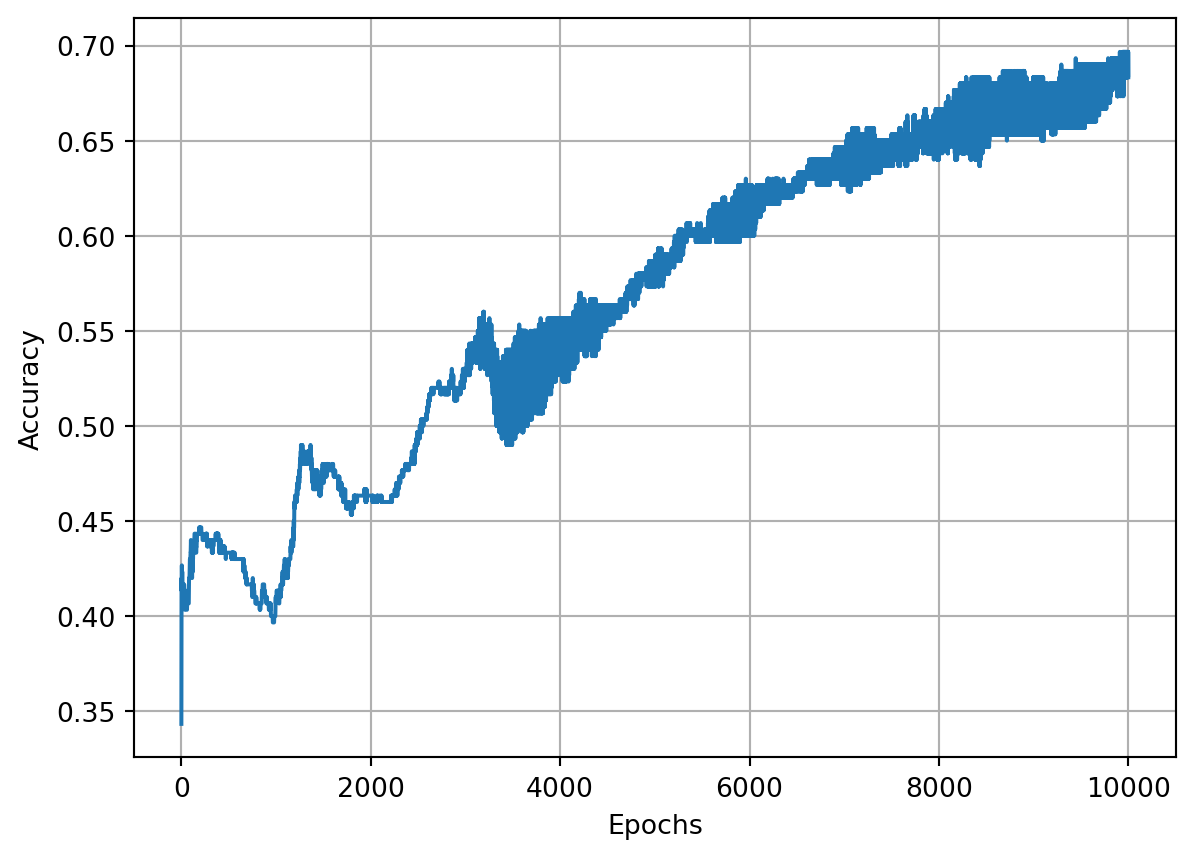
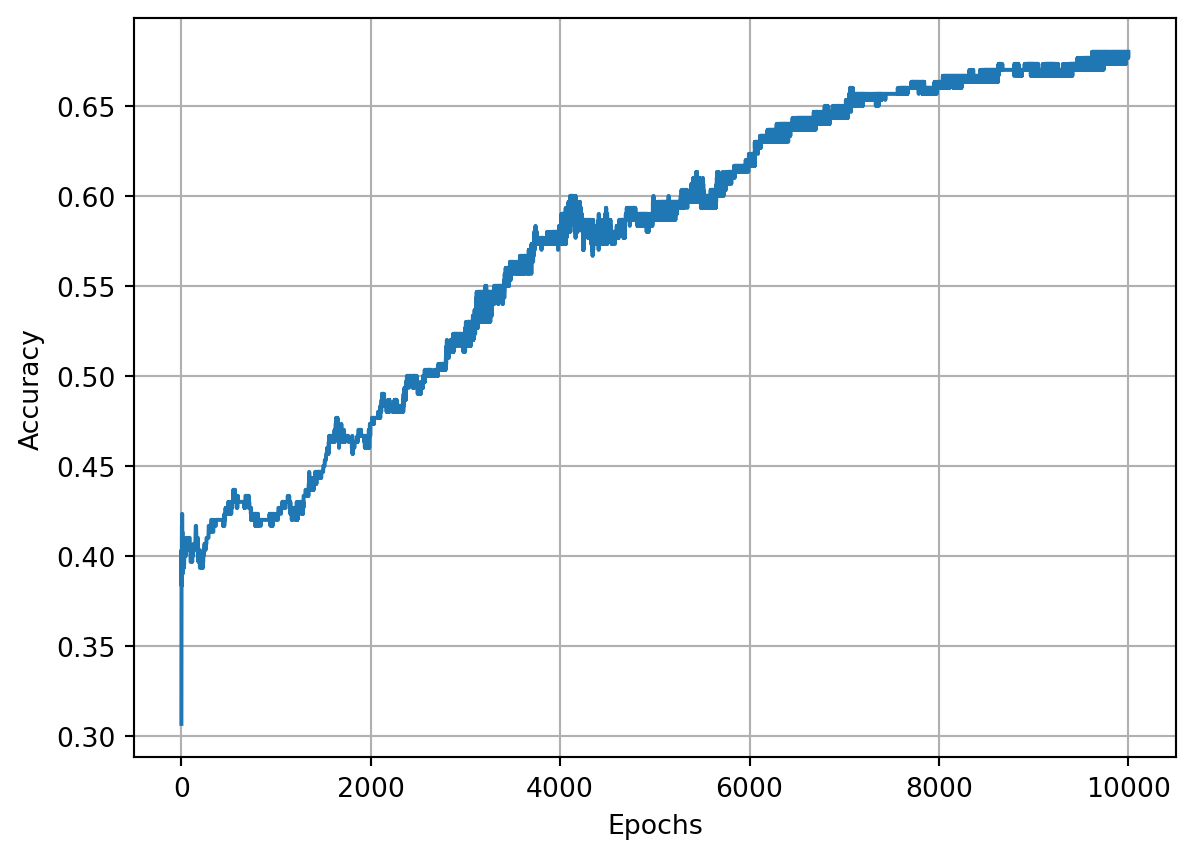
optimization

diff --git a/docs/posts/optimization_algorithms/index.html b/docs/posts/optimization_algorithms/index.html
@@ -201,6 +201,7 @@ pre > code.sourceCode > span > a:first-child::before { text-decoration: underlin
   <li><a href="#adding-momentum-to-the-sgdoptimizer-class" id="toc-adding-momentum-to-the-sgdoptimizer-class" class="nav-link" data-scroll-target="#adding-momentum-to-the-sgdoptimizer-class">Adding momentum to the <code>SGDOptimizer</code> class</a>
   <ul class="collapse">
   <li><a href="#adagrad" id="toc-adagrad" class="nav-link" data-scroll-target="#adagrad">AdaGrad</a></li>
+  <li><a href="#rmsprop" id="toc-rmsprop" class="nav-link" data-scroll-target="#rmsprop">RMSProp</a></li>
   </ul></li>
   </ul>
 </nav>
@@ -644,7 +645,7 @@ w_{k+1} := w_k - \alpha_k \nabla \mathcal{L}(w_{k}) = w_k - \alpha_k \nabla L_i(
 <span id="cb11-25"><a href="#cb11-25" aria-hidden="true" tabindex="-1"></a>optimizer.update_params(dense1)</span>
 <span id="cb11-26"><a href="#cb11-26" aria-hidden="true" tabindex="-1"></a>optimizer.update_params(dense2)</span></code><button title="Copy to Clipboard" class="code-copy-button"><i class="bi"></i></button></pre></div>
 <div class="cell-output cell-output-stdout">
-<pre><code>Loss = 1.0986101374525528</code></pre>
+<pre><code>Loss = 1.0986570280936756</code></pre>
 </div>
 </div>
 <p>This is everything we need to train our model!</p>
@@ -702,16 +703,16 @@ w_{k+1} := w_k - \alpha_k \nabla \mathcal{L}(w_{k}) = w_k - \alpha_k \nabla L_i(
 <span id="cb13-49"><a href="#cb13-49" aria-hidden="true" tabindex="-1"></a>    optimizer.update_params(dense2)</span></code><button title="Copy to Clipboard" class="code-copy-button"><i class="bi"></i></button></pre></div>
 <div class="cell-output cell-output-stdout">
 <pre><code>Epoch: 0, Loss:  1.099
-Epoch: 1000, Loss:  1.047
-Epoch: 2000, Loss:  0.966
-Epoch: 3000, Loss:  0.919
-Epoch: 4000, Loss:  0.820
-Epoch: 5000, Loss:  0.791
-Epoch: 6000, Loss:  0.734
-Epoch: 7000, Loss:  0.746
-Epoch: 8000, Loss:  0.765
-Epoch: 9000, Loss:  0.810
-Epoch: 10000, Loss:  0.614</code></pre>
+Epoch: 1000, Loss:  1.019
+Epoch: 2000, Loss:  0.894
+Epoch: 3000, Loss:  0.844
+Epoch: 4000, Loss:  0.786
+Epoch: 5000, Loss:  0.705
+Epoch: 6000, Loss:  0.682
+Epoch: 7000, Loss:  0.645
+Epoch: 8000, Loss:  0.515
+Epoch: 9000, Loss:  0.488
+Epoch: 10000, Loss:  0.458</code></pre>
 </div>
 </div>
 <p>Our neural network mostly stays stuck at around a loss of <span class="math inline">\(1.0\)</span> and later around <span class="math inline">\(0.85\)</span>-<span class="math inline">\(0.90\)</span> Given that this loss didn’t decrease much, we can assume that this learning rate being too high, also caused the model to get stuck in a <strong>local minimum</strong>, which we’ll learn more about soon. Iterating over more epochs, doesn’t seem helpful at this point, which tells us that we’re likely stuck with our optimization. Does this mean that this is the most we can get from our optimizer on this dataset?</p>
@@ -867,17 +868,17 @@ Epoch: 10000, Loss:  0.614</code></pre>
 <div class="cell" data-execution_count="16">
 <div class="sourceCode cell-code" id="cb20"><pre class="sourceCode python code-with-copy"><code class="sourceCode python"><span id="cb20-1"><a href="#cb20-1" aria-hidden="true" tabindex="-1"></a>acc_vals, loss_vals, lr_vals <span class="op">=</span> train(decay<span class="op">=</span><span class="fl">0.01</span>)</span></code><button title="Copy to Clipboard" class="code-copy-button"><i class="bi"></i></button></pre></div>
 <div class="cell-output cell-output-stdout">
-<pre><code>epoch: 0,                 acc : 0.393,                 loss:  1.099,                 lr : 1.0
-epoch: 1000,                 acc : 0.430,                 loss:  1.066,                 lr : 0.09099181073703366
-epoch: 2000,                 acc : 0.420,                 loss:  1.063,                 lr : 0.047641734159123386
-epoch: 3000,                 acc : 0.430,                 loss:  1.061,                 lr : 0.03226847370119393
-epoch: 4000,                 acc : 0.430,                 loss:  1.059,                 lr : 0.02439619419370578
-epoch: 5000,                 acc : 0.440,                 loss:  1.058,                 lr : 0.019611688566385566
-epoch: 6000,                 acc : 0.440,                 loss:  1.057,                 lr : 0.016396130513198885
-epoch: 7000,                 acc : 0.443,                 loss:  1.056,                 lr : 0.014086491055078181
-epoch: 8000,                 acc : 0.457,                 loss:  1.055,                 lr : 0.012347203358439314
-epoch: 9000,                 acc : 0.447,                 loss:  1.054,                 lr : 0.010990218705352238
-epoch: 10000,                 acc : 0.450,                 loss:  1.053,                 lr : 0.009901970492127933</code></pre>
+<pre><code>epoch: 0,                 acc : 0.313,                 loss:  1.099,                 lr : 1.0
+epoch: 1000,                 acc : 0.443,                 loss:  1.066,                 lr : 0.09099181073703366
+epoch: 2000,                 acc : 0.453,                 loss:  1.066,                 lr : 0.047641734159123386
+epoch: 3000,                 acc : 0.453,                 loss:  1.066,                 lr : 0.03226847370119393
+epoch: 4000,                 acc : 0.457,                 loss:  1.065,                 lr : 0.02439619419370578
+epoch: 5000,                 acc : 0.457,                 loss:  1.065,                 lr : 0.019611688566385566
+epoch: 6000,                 acc : 0.457,                 loss:  1.065,                 lr : 0.016396130513198885
+epoch: 7000,                 acc : 0.453,                 loss:  1.065,                 lr : 0.014086491055078181
+epoch: 8000,                 acc : 0.453,                 loss:  1.065,                 lr : 0.012347203358439314
+epoch: 9000,                 acc : 0.453,                 loss:  1.065,                 lr : 0.010990218705352238
+epoch: 10000,                 acc : 0.453,                 loss:  1.065,                 lr : 0.009901970492127933</code></pre>
 </div>
 </div>
 <div class="cell" data-execution_count="17">
@@ -904,7 +905,7 @@ epoch: 10000,                 acc : 0.450,                 loss:  1.053,        
 <span id="cb23-5"><a href="#cb23-5" aria-hidden="true" tabindex="-1"></a>plt.show()</span></code><button title="Copy to Clipboard" class="code-copy-button"><i class="bi"></i></button></pre></div>
 </details>
 <div class="cell-output cell-output-display">
-<p><img src="index_files/figure-html/cell-19-output-1.png" width="597" height="429"></p>
+<p><img src="index_files/figure-html/cell-19-output-1.png" width="606" height="431"></p>
 </div>
 </div>
 <div class="cell" data-execution_count="19">
@@ -924,17 +925,17 @@ epoch: 10000,                 acc : 0.450,                 loss:  1.053,        
 <div class="cell" data-execution_count="20">
 <div class="sourceCode cell-code" id="cb25"><pre class="sourceCode python code-with-copy"><code class="sourceCode python"><span id="cb25-1"><a href="#cb25-1" aria-hidden="true" tabindex="-1"></a>acc_vals, loss_vals, lr_vals <span class="op">=</span> train(decay<span class="op">=</span><span class="fl">1e-3</span>)</span></code><button title="Copy to Clipboard" class="code-copy-button"><i class="bi"></i></button></pre></div>
 <div class="cell-output cell-output-stdout">
-<pre><code>epoch: 0,                 acc : 0.343,                 loss:  1.099,                 lr : 1.0
-epoch: 1000,                 acc : 0.410,                 loss:  1.030,                 lr : 0.5002501250625312
-epoch: 2000,                 acc : 0.463,                 loss:  0.970,                 lr : 0.33344448149383127
-epoch: 3000,                 acc : 0.530,                 loss:  0.898,                 lr : 0.25006251562890724
-epoch: 4000,                 acc : 0.557,                 loss:  0.865,                 lr : 0.2000400080016003
-epoch: 5000,                 acc : 0.587,                 loss:  0.821,                 lr : 0.16669444907484582
-epoch: 6000,                 acc : 0.600,                 loss:  0.782,                 lr : 0.1428775539362766
-epoch: 7000,                 acc : 0.627,                 loss:  0.746,                 lr : 0.12501562695336915
-epoch: 8000,                 acc : 0.640,                 loss:  0.713,                 lr : 0.11112345816201799
-epoch: 9000,                 acc : 0.653,                 loss:  0.681,                 lr : 0.1000100010001
-epoch: 10000,                 acc : 0.683,                 loss:  0.651,                 lr : 0.09091735612328393</code></pre>
+<pre><code>epoch: 0,                 acc : 0.307,                 loss:  1.099,                 lr : 1.0
+epoch: 1000,                 acc : 0.420,                 loss:  1.063,                 lr : 0.5002501250625312
+epoch: 2000,                 acc : 0.473,                 loss:  1.029,                 lr : 0.33344448149383127
+epoch: 3000,                 acc : 0.517,                 loss:  0.968,                 lr : 0.25006251562890724
+epoch: 4000,                 acc : 0.577,                 loss:  0.908,                 lr : 0.2000400080016003
+epoch: 5000,                 acc : 0.593,                 loss:  0.881,                 lr : 0.16669444907484582
+epoch: 6000,                 acc : 0.620,                 loss:  0.851,                 lr : 0.1428775539362766
+epoch: 7000,                 acc : 0.650,                 loss:  0.817,                 lr : 0.12501562695336915
+epoch: 8000,                 acc : 0.663,                 loss:  0.786,                 lr : 0.11112345816201799
+epoch: 9000,                 acc : 0.673,                 loss:  0.754,                 lr : 0.1000100010001
+epoch: 10000,                 acc : 0.680,                 loss:  0.723,                 lr : 0.09091735612328393</code></pre>
 </div>
 </div>
 <div class="cell" data-execution_count="21">
@@ -961,7 +962,7 @@ epoch: 10000,                 acc : 0.683,                 loss:  0.651,        
 <span id="cb28-5"><a href="#cb28-5" aria-hidden="true" tabindex="-1"></a>plt.show()</span></code><button title="Copy to Clipboard" class="code-copy-button"><i class="bi"></i></button></pre></div>
 </details>
 <div class="cell-output cell-output-display">
-<p><img src="index_files/figure-html/cell-23-output-1.png" width="589" height="429"></p>
+<p><img src="index_files/figure-html/cell-23-output-1.png" width="597" height="429"></p>
 </div>
 </div>
 <div class="cell" data-execution_count="23">
@@ -1207,38 +1208,93 @@ R_j = \frac{R-\sigma_j I}{\sigma_1 - \sigma_2}
 <div class="cell" data-execution_count="26">
 <div class="sourceCode cell-code" id="cb32"><pre class="sourceCode python code-with-copy"><code class="sourceCode python"><span id="cb32-1"><a href="#cb32-1" aria-hidden="true" tabindex="-1"></a>acc_vals, loss_vals, lr_vals <span class="op">=</span> train(decay<span class="op">=</span><span class="fl">1e-3</span>, momentum<span class="op">=</span><span class="fl">0.5</span>)</span></code><button title="Copy to Clipboard" class="code-copy-button"><i class="bi"></i></button></pre></div>
 <div class="cell-output cell-output-stdout">
-<pre><code>epoch: 0,                 acc : 0.417,                 loss:  1.099,                 lr : 1.0
-epoch: 1000,                 acc : 0.493,                 loss:  0.988,                 lr : 0.5002501250625312
-epoch: 2000,                 acc : 0.523,                 loss:  0.952,                 lr : 0.33344448149383127
-epoch: 3000,                 acc : 0.570,                 loss:  0.918,                 lr : 0.25006251562890724
-epoch: 4000,                 acc : 0.590,                 loss:  0.879,                 lr : 0.2000400080016003
-epoch: 5000,                 acc : 0.637,                 loss:  0.835,                 lr : 0.16669444907484582
-epoch: 6000,                 acc : 0.610,                 loss:  0.822,                 lr : 0.1428775539362766
-epoch: 7000,                 acc : 0.637,                 loss:  0.780,                 lr : 0.12501562695336915
-epoch: 8000,                 acc : 0.733,                 loss:  0.724,                 lr : 0.11112345816201799
-epoch: 9000,                 acc : 0.697,                 loss:  0.695,                 lr : 0.1000100010001
-epoch: 10000,                 acc : 0.690,                 loss:  0.674,                 lr : 0.09091735612328393</code></pre>
+<pre><code>epoch: 0,                 acc : 0.370,                 loss:  1.099,                 lr : 1.0
+epoch: 1000,                 acc : 0.510,                 loss:  0.947,                 lr : 0.5002501250625312
+epoch: 2000,                 acc : 0.513,                 loss:  0.889,                 lr : 0.33344448149383127
+epoch: 3000,                 acc : 0.623,                 loss:  0.865,                 lr : 0.25006251562890724
+epoch: 4000,                 acc : 0.673,                 loss:  0.743,                 lr : 0.2000400080016003
+epoch: 5000,                 acc : 0.677,                 loss:  0.693,                 lr : 0.16669444907484582
+epoch: 6000,                 acc : 0.743,                 loss:  0.584,                 lr : 0.1428775539362766
+epoch: 7000,                 acc : 0.787,                 loss:  0.532,                 lr : 0.12501562695336915
+epoch: 8000,                 acc : 0.793,                 loss:  0.499,                 lr : 0.11112345816201799
+epoch: 9000,                 acc : 0.820,                 loss:  0.469,                 lr : 0.1000100010001
+epoch: 10000,                 acc : 0.830,                 loss:  0.443,                 lr : 0.09091735612328393</code></pre>
 </div>
 </div>
 <p>The model achieved the lowest loss and the highest accuracy that we’ve seen so far. Can we do better? Sure, we can! Let’s try to set the momentum to <span class="math inline">\(0.9\)</span>:</p>
 <div class="cell" data-execution_count="27">
 <div class="sourceCode cell-code" id="cb34"><pre class="sourceCode python code-with-copy"><code class="sourceCode python"><span id="cb34-1"><a href="#cb34-1" aria-hidden="true" tabindex="-1"></a>acc_vals, loss_vals, lr_vals <span class="op">=</span> train(decay<span class="op">=</span><span class="fl">1e-3</span>, momentum<span class="op">=</span><span class="fl">0.9</span>)</span></code><button title="Copy to Clipboard" class="code-copy-button"><i class="bi"></i></button></pre></div>
 <div class="cell-output cell-output-stdout">
-<pre><code>epoch: 0,                 acc : 0.347,                 loss:  1.099,                 lr : 1.0
-epoch: 1000,                 acc : 0.870,                 loss:  0.343,                 lr : 0.5002501250625312
-epoch: 2000,                 acc : 0.897,                 loss:  0.263,                 lr : 0.33344448149383127
-epoch: 3000,                 acc : 0.893,                 loss:  0.249,                 lr : 0.25006251562890724
-epoch: 4000,                 acc : 0.893,                 loss:  0.238,                 lr : 0.2000400080016003
-epoch: 5000,                 acc : 0.917,                 loss:  0.198,                 lr : 0.16669444907484582
-epoch: 6000,                 acc : 0.930,                 loss:  0.177,                 lr : 0.1428775539362766
-epoch: 7000,                 acc : 0.930,                 loss:  0.169,                 lr : 0.12501562695336915
-epoch: 8000,                 acc : 0.933,                 loss:  0.164,                 lr : 0.11112345816201799
-epoch: 9000,                 acc : 0.930,                 loss:  0.158,                 lr : 0.1000100010001
-epoch: 10000,                 acc : 0.933,                 loss:  0.155,                 lr : 0.09091735612328393</code></pre>
+<pre><code>epoch: 0,                 acc : 0.363,                 loss:  1.099,                 lr : 1.0
+epoch: 1000,                 acc : 0.683,                 loss:  0.602,                 lr : 0.5002501250625312
+epoch: 2000,                 acc : 0.723,                 loss:  0.550,                 lr : 0.33344448149383127
+epoch: 3000,                 acc : 0.720,                 loss:  0.543,                 lr : 0.25006251562890724
+epoch: 4000,                 acc : 0.720,                 loss:  0.540,                 lr : 0.2000400080016003
+epoch: 5000,                 acc : 0.720,                 loss:  0.538,                 lr : 0.16669444907484582
+epoch: 6000,                 acc : 0.720,                 loss:  0.536,                 lr : 0.1428775539362766
+epoch: 7000,                 acc : 0.720,                 loss:  0.535,                 lr : 0.12501562695336915
+epoch: 8000,                 acc : 0.720,                 loss:  0.534,                 lr : 0.11112345816201799
+epoch: 9000,                 acc : 0.720,                 loss:  0.534,                 lr : 0.1000100010001
+epoch: 10000,                 acc : 0.720,                 loss:  0.533,                 lr : 0.09091735612328393</code></pre>
 </div>
 </div>
 <section id="adagrad" class="level2">
 <h2 class="anchored" data-anchor-id="adagrad">AdaGrad</h2>
+<p>In real-world datasets, some input features are sparse and some features are dense. If we use the same learning rate <span class="math inline">\(\alpha\)</span> for all the weights, parameters associated with sparse features receive meaningful updates only when these features occur. Given a decreasing learning rate, we might end up with a situation where parameters for dense features converge rather quickly to their optimal values, whereas for sparse features, we are still short of observing them sufficiently frequently before their optimal values can be determined. In other words, the learning rate decreases too slowly for dense features and too quickly for sparse features.</p>
+<p>The update rule for adaptive step-size gradient descent is:</p>
+<p><span class="math display">\[\begin{align*}
+{w}_{t+1} &amp; {w}_{t} - \frac{\alpha}{\sqrt{G_t + \epsilon}}\odot g_t
+\end{align*}\]</span></p>
+<p>where <span class="math inline">\(G(t)\)</span> contains the sum of the squares of the past gradients. $Here the operations are applied coordinate-wise. As before, <span class="math inline">\(\alpha\)</span> is the learning rate and <span class="math inline">\(\epsilon\)</span> is an additive constant that ensures that we do not divide by <span class="math inline">\(0\)</span>.</p>
+<p>Thus, Adagrad decreases the learning-rate dynamically on a per-coordinate basis.</p>
+<div class="cell" data-execution_count="28">
+<div class="sourceCode cell-code" id="cb36"><pre class="sourceCode python code-with-copy"><code class="sourceCode python"><span id="cb36-1"><a href="#cb36-1" aria-hidden="true" tabindex="-1"></a><span class="kw">class</span> AdagradOptimizer:</span>
+<span id="cb36-2"><a href="#cb36-2" aria-hidden="true" tabindex="-1"></a></span>
+<span id="cb36-3"><a href="#cb36-3" aria-hidden="true" tabindex="-1"></a>    <span class="co"># Initial optimizer - set settings</span></span>
+<span id="cb36-4"><a href="#cb36-4" aria-hidden="true" tabindex="-1"></a>    <span class="co"># learning rate of 1. is default for this optimizer</span></span>
+<span id="cb36-5"><a href="#cb36-5" aria-hidden="true" tabindex="-1"></a>    <span class="kw">def</span> <span class="fu">__init__</span>(<span class="va">self</span>, learning_rate<span class="op">=</span><span class="fl">1.0</span>, decay<span class="op">=</span><span class="fl">0.0</span>, epsilon<span class="op">=</span><span class="fl">1e-7</span>):</span>
+<span id="cb36-6"><a href="#cb36-6" aria-hidden="true" tabindex="-1"></a>        <span class="va">self</span>.learning_rate <span class="op">=</span> learning_rate</span>
+<span id="cb36-7"><a href="#cb36-7" aria-hidden="true" tabindex="-1"></a>        <span class="va">self</span>.current_learning_rate <span class="op">=</span> learning_rate</span>
+<span id="cb36-8"><a href="#cb36-8" aria-hidden="true" tabindex="-1"></a>        <span class="va">self</span>.decay <span class="op">=</span> decay</span>
+<span id="cb36-9"><a href="#cb36-9" aria-hidden="true" tabindex="-1"></a>        <span class="va">self</span>.iterations <span class="op">=</span> <span class="dv">0</span></span>
+<span id="cb36-10"><a href="#cb36-10" aria-hidden="true" tabindex="-1"></a>        <span class="va">self</span>.epsilon <span class="op">=</span> epsilon</span>
+<span id="cb36-11"><a href="#cb36-11" aria-hidden="true" tabindex="-1"></a></span>
+<span id="cb36-12"><a href="#cb36-12" aria-hidden="true" tabindex="-1"></a>    <span class="co"># Call once before any parameter updates</span></span>
+<span id="cb36-13"><a href="#cb36-13" aria-hidden="true" tabindex="-1"></a>    <span class="kw">def</span> pre_update_params(<span class="va">self</span>):</span>
+<span id="cb36-14"><a href="#cb36-14" aria-hidden="true" tabindex="-1"></a>        <span class="cf">if</span> <span class="va">self</span>.decay:</span>
+<span id="cb36-15"><a href="#cb36-15" aria-hidden="true" tabindex="-1"></a>            <span class="va">self</span>.current_learning_rate <span class="op">=</span> <span class="va">self</span>.learning_rate <span class="op">*</span> (</span>
+<span id="cb36-16"><a href="#cb36-16" aria-hidden="true" tabindex="-1"></a>                <span class="fl">1.0</span> <span class="op">/</span> (<span class="fl">1.0</span> <span class="op">+</span> <span class="va">self</span>.decay <span class="op">*</span> <span class="va">self</span>.iterations)</span>
+<span id="cb36-17"><a href="#cb36-17" aria-hidden="true" tabindex="-1"></a>            )</span>
+<span id="cb36-18"><a href="#cb36-18" aria-hidden="true" tabindex="-1"></a></span>
+<span id="cb36-19"><a href="#cb36-19" aria-hidden="true" tabindex="-1"></a>    <span class="co"># Update parameters</span></span>
+<span id="cb36-20"><a href="#cb36-20" aria-hidden="true" tabindex="-1"></a>    <span class="kw">def</span> update_params(<span class="va">self</span>, layer):</span>
+<span id="cb36-21"><a href="#cb36-21" aria-hidden="true" tabindex="-1"></a>        <span class="cf">if</span> <span class="kw">not</span> <span class="bu">hasattr</span>(layer, <span class="st">"weight_cache"</span>):</span>
+<span id="cb36-22"><a href="#cb36-22" aria-hidden="true" tabindex="-1"></a>            layer.weight_cache <span class="op">=</span> np.zeros_like(layer.weights)</span>
+<span id="cb36-23"><a href="#cb36-23" aria-hidden="true" tabindex="-1"></a>            layer.bias_cache <span class="op">=</span> np.zeros_like(layer.biases)</span>
+<span id="cb36-24"><a href="#cb36-24" aria-hidden="true" tabindex="-1"></a></span>
+<span id="cb36-25"><a href="#cb36-25" aria-hidden="true" tabindex="-1"></a>        <span class="co"># Update cache with squared current gradients</span></span>
+<span id="cb36-26"><a href="#cb36-26" aria-hidden="true" tabindex="-1"></a>        layer.weight_cache <span class="op">+=</span> layer.dloss_dweights<span class="op">**</span><span class="dv">2</span></span>
+<span id="cb36-27"><a href="#cb36-27" aria-hidden="true" tabindex="-1"></a>        layer.bias_cache <span class="op">+=</span> layer.dloss_dbiases<span class="op">**</span><span class="dv">2</span></span>
+<span id="cb36-28"><a href="#cb36-28" aria-hidden="true" tabindex="-1"></a></span>
+<span id="cb36-29"><a href="#cb36-29" aria-hidden="true" tabindex="-1"></a>        <span class="co"># Vanilla SGD parameter update + normalization</span></span>
+<span id="cb36-30"><a href="#cb36-30" aria-hidden="true" tabindex="-1"></a>        <span class="co"># with square rooted cache</span></span>
+<span id="cb36-31"><a href="#cb36-31" aria-hidden="true" tabindex="-1"></a>        layer.weights <span class="op">+=</span> (</span>
+<span id="cb36-32"><a href="#cb36-32" aria-hidden="true" tabindex="-1"></a>            <span class="va">self</span>.current_learning_rate</span>
+<span id="cb36-33"><a href="#cb36-33" aria-hidden="true" tabindex="-1"></a>            <span class="op">*</span> layer.dloss_dweights</span>
+<span id="cb36-34"><a href="#cb36-34" aria-hidden="true" tabindex="-1"></a>            <span class="op">/</span> (np.sqrt(layer.weight_cache) <span class="op">+</span> <span class="va">self</span>.epsilon)</span>
+<span id="cb36-35"><a href="#cb36-35" aria-hidden="true" tabindex="-1"></a>        )</span>
+<span id="cb36-36"><a href="#cb36-36" aria-hidden="true" tabindex="-1"></a>        layer.biases <span class="op">+=</span> (</span>
+<span id="cb36-37"><a href="#cb36-37" aria-hidden="true" tabindex="-1"></a>            <span class="va">self</span>.current_learning_rate</span>
+<span id="cb36-38"><a href="#cb36-38" aria-hidden="true" tabindex="-1"></a>            <span class="op">*</span> layer.dloss_dbiases</span>
+<span id="cb36-39"><a href="#cb36-39" aria-hidden="true" tabindex="-1"></a>            <span class="op">/</span> (np.sqrt(layer.bias_cache) <span class="op">+</span> <span class="va">self</span>.epsilon)</span>
+<span id="cb36-40"><a href="#cb36-40" aria-hidden="true" tabindex="-1"></a>        )</span>
+<span id="cb36-41"><a href="#cb36-41" aria-hidden="true" tabindex="-1"></a></span>
+<span id="cb36-42"><a href="#cb36-42" aria-hidden="true" tabindex="-1"></a>    <span class="kw">def</span> post_update_params(<span class="va">self</span>):</span>
+<span id="cb36-43"><a href="#cb36-43" aria-hidden="true" tabindex="-1"></a>        <span class="va">self</span>.iterations <span class="op">+=</span> <span class="dv">1</span></span></code><button title="Copy to Clipboard" class="code-copy-button"><i class="bi"></i></button></pre></div>
+</div>
+</section>
+<section id="rmsprop" class="level2">
+<h2 class="anchored" data-anchor-id="rmsprop">RMSProp</h2>
 
 
 </section>

diff --git a/docs/index.html b/docs/index.html
@@ -185,7 +185,7 @@ Jun 20, 2024
 </div>
 </a>
 </div>
-<div class="g-col-1" data-index="1" data-categories="Machine Learning" data-listing-date-sort="1717970400000" data-listing-file-modified-sort="1719131672273" data-listing-date-modified-sort="NaN" data-listing-reading-time-sort="31">
+<div class="g-col-1" data-index="1" data-categories="Machine Learning" data-listing-date-sort="1717970400000" data-listing-file-modified-sort="1719148902820" data-listing-date-modified-sort="NaN" data-listing-reading-time-sort="34">
 <a href="./posts/optimization_algorithms/index.html" class="quarto-grid-link">
 <div class="quarto-grid-item card h-100 card-left">
 <p class="card-img-top">
